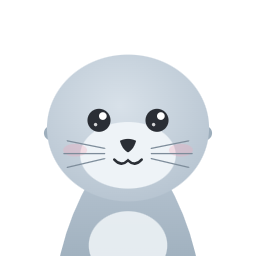
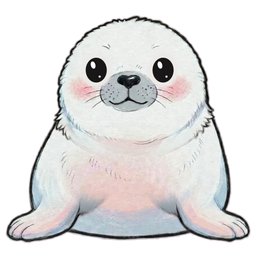
桌面版換成新造型：重做圖示腳本與圖示，重新打包
- desktop/tools/make-icon.js：角色改為外部 PNG 圖層後無法再序列化 SVG 來畫，改成離屏視窗載入 ?pose=yaw:0 擷取整頁再裁切；
  離屏視窗的 capturePage 會忽略範圍參數、視窗高度也可能被螢幕工作區限制，所以依實際擷取尺寸等比換算 1024 座標
- desktop/assets/icon.png（整隻）、tray.png（頭部）重新產生
- README：圖示說明與狀態更新（安裝檔與可攜版已重新打包）

diff --git a/desktop/tools/make-icon.js b/desktop/tools/make-icon.js
@@ -1,11 +1,13 @@
-/* make-icon.js — 用 Electron 把 index.html 裡的海豹 SVG 畫成 PNG 圖示
+/* make-icon.js — 用 Electron 把海豹畫成 PNG 圖示
  *
  * 執行（在 desktop/ 目錄）：npm run icons
  * 產出：
  *   assets/icon.png  256×256，整隻海豹，給打包後的 exe 與視窗圖示
  *   assets/tray.png  64×64，只取頭部，給系統匣
  *
- * 換了正式繪圖之後重跑一次即可；程式只靠 <svg id="seal"> 這個 id。
+ * 做法：開一個 1024×1024 的透明離屏視窗載入 index.html（?pose=yaw:0 固定姿勢），
+ * 直接擷取畫面再縮小。角色是外部 PNG 圖層，不能用序列化 SVG 的方式畫。
+ * 換了圖之後重跑一次；下面的擷取範圍是 1024 座標，依新圖的範圍調整。
  */
 'use strict';
 
@@ -16,42 +18,61 @@ const fs = require('fs');
 const WEB_ROOT = path.resolve(__dirname, '..', '..');
 const OUT_DIR = path.resolve(__dirname, '..', 'assets');
 
-// viewBox 區域與輸出大小。tray 只框頭部（頭的橢圓中心 (300,300)、半徑約 190×172，耳朵到 x=103～497）
+// 整隻海豹約在 x 87～937、y 157～961；頭約在 x 252～817、y 157～671
 const JOBS = [
-  { file: 'icon.png', size: 256, viewBox: null },
-  { file: 'tray.png', size: 64, viewBox: '88 102 424 424' },
+  { file: 'icon.png', size: 256, rect: { x: 62, y: 109, width: 900, height: 900 } },
+  { file: 'tray.png', size: 64, rect: { x: 235, y: 114, width: 600, height: 600 } },
 ];
 
-async function render(win, job) {
-  // 把頁面裡的 SVG 序列化成獨立的 svg 圖檔，用 <img> 載入後畫到透明 canvas 上
-  return win.webContents.executeJavaScript(`(async () => {
-    const src = document.getElementById('seal');
-    if (!src) throw new Error('找不到 #seal');
-    const svg = src.cloneNode(true);
-    ${job.viewBox ? `svg.setAttribute('viewBox', '${job.viewBox}');` : ''}
-    svg.setAttribute('width', '${job.size}');
-    svg.setAttribute('height', '${job.size}');
-    const xml = new XMLSerializer().serializeToString(svg);
-    const url = URL.createObjectURL(new Blob([xml], { type: 'image/svg+xml' }));
-    const img = new Image();
-    await new Promise((ok, fail) => { img.onload = ok; img.onerror = () => fail(new Error('SVG 載入失敗')); img.src = url; });
-    const canvas = document.createElement('canvas');
-    canvas.width = canvas.height = ${job.size};
-    canvas.getContext('2d').drawImage(img, 0, 0, ${job.size}, ${job.size});
-    URL.revokeObjectURL(url);
-    return canvas.toDataURL('image/png');
-  })()`);
-}
+const sleep = (ms) => new Promise((ok) => setTimeout(ok, ms));
 
 app.whenReady().then(async () => {
-  const win = new BrowserWindow({ show: false, width: 400, height: 400, webPreferences: { offscreen: true } });
+  const win = new BrowserWindow({
+    show: false,
+    width: 1024,
+    height: 1024,
+    useContentSize: true,
+    frame: false,
+    transparent: true,
+    webPreferences: { offscreen: true },
+  });
   try {
-    await win.loadFile(path.join(WEB_ROOT, 'index.html'), { query: { ui: '0', bg: 'transparent' } });
+    await win.loadFile(path.join(WEB_ROOT, 'index.html'), { query: { ui: '0', bg: 'transparent', pose: 'yaw:0' } });
+    // 等三張圖層載入、畫面穩定
+    await win.webContents.executeJavaScript(`new Promise((ok) => {
+      const imgs = Array.from(document.querySelectorAll('#seal image'));
+      let n = 0;
+      const done = () => { if (++n >= imgs.length) ok(); };
+      imgs.forEach((el) => {
+        const probe = new Image();
+        probe.onload = done;
+        probe.onerror = done;
+        probe.src = el.getAttribute('href');
+      });
+      if (!imgs.length) ok();
+    })`);
+    await sleep(800);
     fs.mkdirSync(OUT_DIR, { recursive: true });
+    // 離屏視窗的 capturePage 會忽略範圍參數，所以先擷取整頁再自己裁。
+    // 視窗可能被螢幕工作區限制而變小（例如 1024×752），畫面裡的 1024 座標會等比縮放置中，這裡換算回去
+    const full = await win.webContents.capturePage();
+    const { width, height } = full.getSize();
+    if (full.isEmpty() || width < 200 || height < 200) throw new Error(`擷取畫面大小不對：${width}×${height}`);
+    const s = Math.min(width, height) / 1024;
+    const ox = (width - 1024 * s) / 2;
+    const oy = (height - 1024 * s) / 2;
+    console.log(`擷取 ${width}×${height}，比例 ${s.toFixed(3)}`);
     for (const job of JOBS) {
-      const dataUrl = await render(win, job);
       const out = path.join(OUT_DIR, job.file);
-      fs.writeFileSync(out, Buffer.from(dataUrl.split(',')[1], 'base64'));
+      const r = job.rect;
+      const crop = {
+        x: Math.round(ox + r.x * s),
+        y: Math.round(oy + r.y * s),
+        width: Math.round(r.width * s),
+        height: Math.round(r.height * s),
+      };
+      const shot = full.crop(crop).resize({ width: job.size, height: job.size, quality: 'best' });
+      fs.writeFileSync(out, shot.toPNG());
       console.log(`已寫入 ${out}`);
     }
   } catch (e) {
